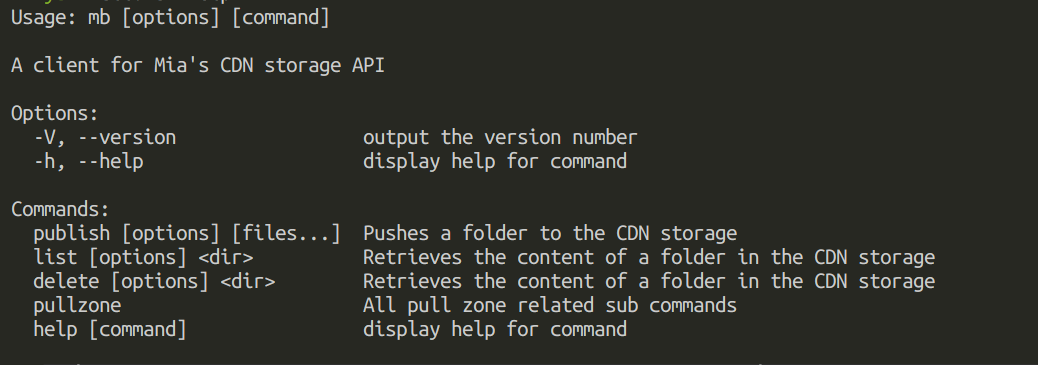
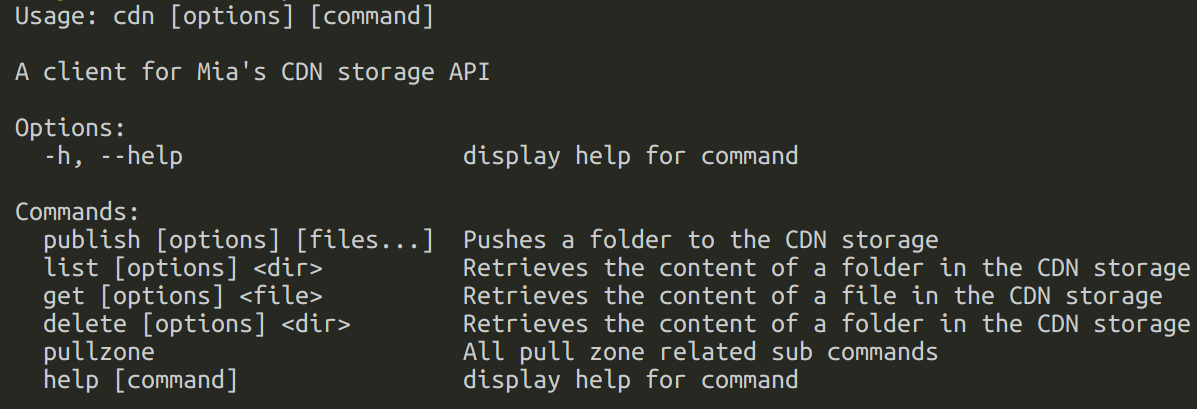
Fix docs

diff --git a/src/command.ts b/src/command.ts
@@ -15,7 +15,7 @@ export const createCommand = async (argv: string[], global: Global, logger: Logg
   const program = new Command()
   program.exitOverride()
   program
-    .name('mb')
+    .name('cdn')
     .description('A client for Mia\'s CDN storage API')
     .configureOutput({
       writeErr: (str) => logger.log(str),

diff --git a/README.md b/README.md
@@ -60,7 +60,7 @@ In a GitLab CI, the _CDN publish_ CLI can be called by running its container as 
 ```yaml
 cdn-release:
   stage: release
-  image: nexus.mia-platform.eu/back-kit/mystery-box:0.1.0
+  image: miaplatform/cdn-publish
   needs:
     []
     # 👆 your dependencies
@@ -79,7 +79,7 @@ cdn-release:
 This repository can be used as well to run _CDN publish_
 
 ```shell
-git clone https://git.tools.mia-platform.eu/platform/backoffice/back-kit/mystery-box.git
+git clone https://github.com/mia-platform/cdn-publish.git
 ```
 
 then install (we recommend using nvm to ensure proper Node.js versioning)
@@ -114,10 +114,11 @@ node dist/index.cjs [options] [command]
 Here's a list of available commands that _CDN publish_ provides. The
 placeholder `cdn` stands for the command invocation, which could either be:
 
-1. [npm] `npx ??/mystery-box`
-2. [yarn] `yarn dlx ??/mystery-box`
+1. [npm] `npx --package "@mia-platform/cdn-publish" cdn`
+2. [yarn] `yarn dlx --package "@mia-platform/cdn-publish" cdn`
 3. [docker container] `cdn`
 4. [local bundle] `node dist/index.cjs`
+5. [local install] `npm i -g . && cdn`
 
 ### Help
 
